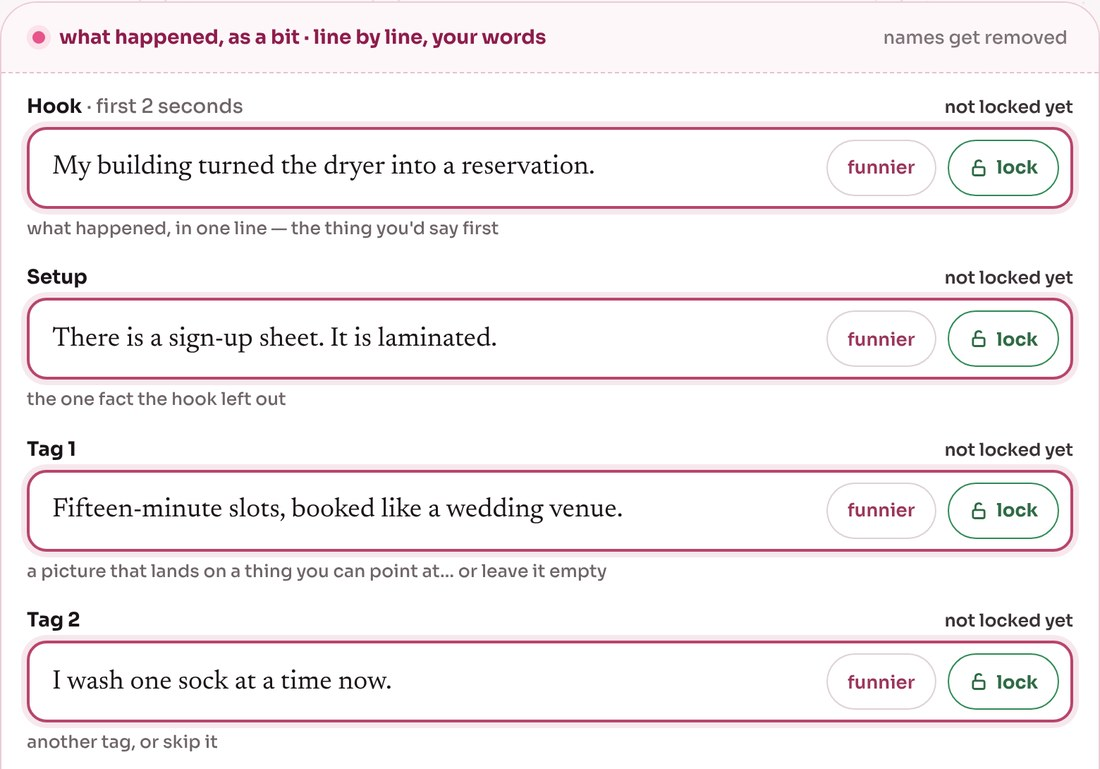
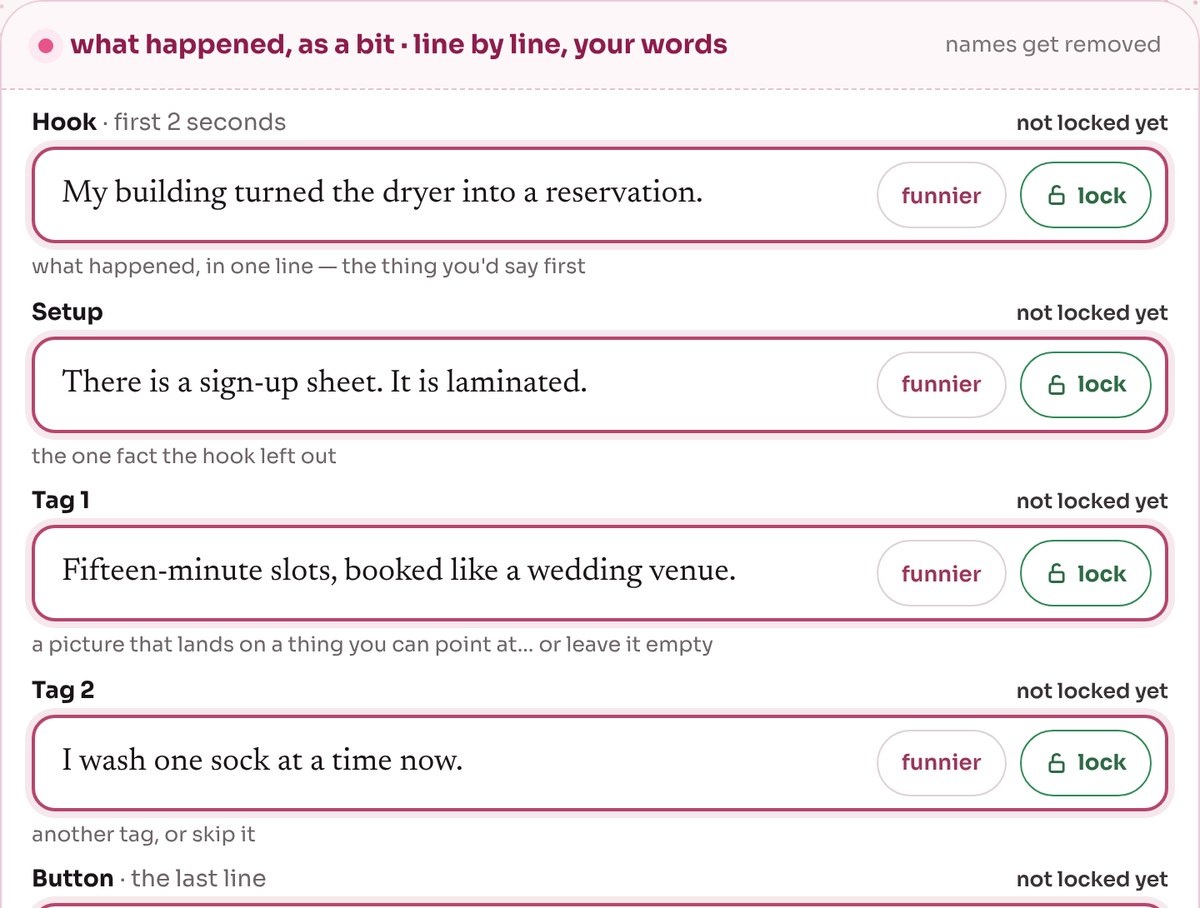
Homepage screenshots come alive: the Bits hook types itself and 'funnier' writes tag 1, the Toasts story types itself, the Realtors walkthrough is written shot by shot
Only covers that uncover the real screenshot (fresh captures from today's pages), so what appears is the product's own screen. Plays while on screen; reduced motion shows the still screenshot.

Claude-Session: https://claude.ai/code/session_01VFctWuAsR2WjEmD9AnvJc8

Changed region(s): [[0.0, 0.1248, 0.9891, 1.0], [0.0309, 0.0312, 0.6182, 0.0624], [0.7727, 0.0312, 0.9891, 0.0624]]

diff --git a/src/pages/home/ShotMotion.tsx b/src/pages/home/ShotMotion.tsx
@@ -1,0 +1,93 @@
+/* Motion on the homepage product screenshots (Nov 6 2026). Nothing here is
+ * drawn: each effect only covers part of the real screenshot and uncovers it,
+ * so what the visitor sees typed or generated is exactly the product's own
+ * screen. Positions are percentages of the screenshot, measured from the
+ * capture (scripts in the PR). Plays only while on screen; with reduced
+ * motion the screenshot shows complete and still. */
+import { useEffect, useRef, type CSSProperties } from 'react'
+
+type Box = { left: number; top: number; width: number; height: number }
+const pct = (b: Box): CSSProperties => ({ left: `${b.left}%`, top: `${b.top}%`, width: `${b.width}%`, height: `${b.height}%` })
+
+/** `then`: another line follows, so this line's caret leaves when it's done */
+type Typing = { kind: 'type'; box: Box; chars: number; from: number; to: number; then?: boolean }
+type Writing = { kind: 'write'; box: Box; until: number; label?: string }
+export type ShotEffect = Typing | Writing
+
+export type ShotMotionSpec = { seconds: number; effects: ShotEffect[] }
+
+/** Bits: the hook is typed, then tag 1 is written by "funnier". */
+const BITS: ShotMotionSpec = {
+  seconds: 10,
+  effects: [
+    { kind: 'type', box: { left: 5.14, top: 19.1, width: 53.8, height: 4.8 }, chars: 48, from: 4, to: 30 },
+    { kind: 'write', box: { left: 5.14, top: 60.6, width: 56.6, height: 4.8 }, until: 52, label: '✦ funnier: writing three ways' },
+  ],
+}
+
+/** Toasts: story 1 is typed, two lines. */
+const TOASTS: ShotMotionSpec = {
+  seconds: 9,
+  effects: [
+    { kind: 'type', box: { left: 5.35, top: 88.15, width: 67.8, height: 3.8 }, chars: 60, from: 6, to: 40, then: true },
+    { kind: 'type', box: { left: 5.35, top: 91.95, width: 21, height: 3.8 }, chars: 18, from: 41, to: 52 },
+  ],
+}
+
+/** Realtors: the walkthrough is written shot by shot. */
+const REALTORS: ShotMotionSpec = {
+  seconds: 8,
+  effects: [
+    { kind: 'write', box: { left: 2.24, top: 49.66, width: 95.05, height: 19.86 }, until: 26, label: '✦ writing the walkthrough from the listing' },
+    { kind: 'write', box: { left: 2.24, top: 69.52, width: 95.05, height: 19.86 }, until: 36 },
+    { kind: 'write', box: { left: 2.24, top: 89.38, width: 95.05, height: 10.62 }, until: 46 },
+  ],
+}
+
+export const SHOT_MOTION: Record<'bits' | 'realtors' | 'toasts', ShotMotionSpec> = { bits: BITS, toasts: TOASTS, realtors: REALTORS }
+
+/** Keyframes for one effect, as a CSS string (percent of the loop). */
+function keyframes(name: string, e: ShotEffect): string {
+  if (e.kind === 'type') {
+    return `@keyframes ${name}{0%,${e.from}%{transform:translateX(0);animation-timing-function:steps(${e.chars},end)}${e.to}%,94%{transform:translateX(${e.then ? '100%' : 'calc(100% - 2px)'});animation-timing-function:steps(1,end)}97%,100%{transform:translateX(0)}}`
+  }
+  return `@keyframes ${name}{0%,${e.until}%{opacity:1}${e.until + 4}%,94%{opacity:0}97%,100%{opacity:1}}`
+}
+
+export function ShotMotion({ product, children }: { product: 'bits' | 'realtors' | 'toasts'; children: React.ReactNode }) {
+  const ref = useRef<HTMLDivElement>(null)
+  const spec = SHOT_MOTION[product]
+
+  useEffect(() => {
+    const el = ref.current
+    if (!el || typeof IntersectionObserver === 'undefined') return
+    const io = new IntersectionObserver(([entry]) => el.classList.toggle('live', entry.isIntersecting), { threshold: 0.35 })
+    io.observe(el)
+    return () => io.disconnect()
+  }, [])
+
+  const css = spec.effects.map((e, i) => keyframes(`ph-${product}-${i}`, e)).join('')
+
+  return (
+    <div className="ph-stage" ref={ref}>
+      {children}
+      <style>{css}</style>
+      {spec.effects.map((e, i) => {
+        const anim = `ph-${product}-${i} ${spec.seconds}s infinite`
+        if (e.kind === 'type') {
+          return (
+            <span key={i} className="ph-type" style={pct(e.box)} aria-hidden="true">
+              <i style={{ animation: `${anim}, ph-caret 1s steps(1, end) infinite` }} />
+            </span>
+          )
+        }
+        return (
+          <span key={i} className="ph-write" style={{ ...pct(e.box), animation: anim }} aria-hidden="true">
+            <b /><b /><b />
+            {e.label && <em>{e.label}</em>}
+          </span>
+        )
+      })}
+    </div>
+  )
+}

diff --git a/src/pages/home/ProductHome.tsx b/src/pages/home/ProductHome.tsx
@@ -13,6 +13,7 @@ import { Link } from '@tanstack/react-router'
 import { useCurrentAlias } from '@/hooks/use-current-alias'
 import { trackEvent } from '@/lib/tracking'
 import { Footer } from '@/components/feed/Footer'
+import { ShotMotion } from './ShotMotion'
 import '@/components/feed/feed.css'
 import './product-home.css'
 
@@ -92,7 +93,7 @@ const PRODUCTS: ProductLine[] = [
     gets: [['lines', 'The bit'], ['video', '5-second video'], ['mic', 'Stand-up prompter'], ['page', 'Sketch page'], ['scene', 'Skit']],
     price: 'Free: 1 bit a day, video watermarked · Basic $19.99/mo: 3 a day · Pro $49.99/mo: unlimited',
     cta: 'Write a bit', href: '/bits',
-    shot: { src: '/home/bits.jpg', url: 'shutap.com/bits', w: 1100, h: 769, alt: 'The Shutap Bits writer: a hook, setup and tags typed line by line, each with funnier and lock' },
+    shot: { src: '/home/bits.jpg', url: 'shutap.com/bits', w: 1200, h: 908, alt: 'The Shutap Bits writer: a hook, setup and tags typed line by line, each with funnier and lock' },
   },
   {
     key: 'realtors', icon: 'realtors', name: 'Realtors', full: 'Shutap for Realtors', aud: 'for agents and brokerages', tab: 'listing videos',
@@ -103,7 +104,7 @@ const PRODUCTS: ProductLine[] = [
     gets: [['camera', 'Walkthrough'], ['wave', 'Voiceover'], ['bolt', 'Hooks'], ['sign', 'Open house'], ['post', 'Posts'], ['doc', 'MLS copy']],
     price: 'First kit free, marked · one kit $12.99 · Basic: 20 a month · Pro: unlimited',
     cta: 'Paste a listing', href: '/realtors',
-    shot: { src: '/home/realtors.jpg', url: 'shutap.com/realtors', w: 1100, h: 649, alt: 'A Shutap for Realtors kit for 1384 Madera Ave, Menlo Park, open on the walkthrough' },
+    shot: { src: '/home/realtors.jpg', url: 'shutap.com/realtors', w: 1200, h: 708, alt: 'A Shutap for Realtors kit for 1384 Madera Ave, Menlo Park, open on the walkthrough' },
   },
   {
     key: 'toasts', icon: 'toasts', name: 'Toasts', full: 'Shutap Toasts', aud: 'for weddings and holidays', tab: 'weddings & holidays',
@@ -114,7 +115,7 @@ const PRODUCTS: ProductLine[] = [
     gets: [['doc', 'Speech'], ['cards', 'Cue cards'], ['phone', 'Prompter'], ['clock', '60-sec cut'], ['timer', 'Rehearse'], ['gift', 'Keepsake']],
     price: 'First toast free, marked · one toast $12.99 · Basic: 1 a month · Pro: unlimited',
     cta: 'Write a toast', href: '/toasts',
-    shot: { src: '/home/toasts.jpg', url: 'shutap.com/toasts', w: 1100, h: 977, alt: 'The Shutap Toasts form: the occasion, who it is for, and the first story' },
+    shot: { src: '/home/toasts.jpg', url: 'shutap.com/toasts', w: 1200, h: 1065, alt: 'The Shutap Toasts form: the occasion, who it is for, and the first story' },
     occasions: [
       { label: 'best man', href: '/toasts/best-man' },
       { label: 'maid of honor', href: '/toasts/maid-of-honor' },
@@ -256,7 +257,11 @@ export function ProductHome() {
                     <figure className="shot">
                       <div className="win">
                         <div className="bar" aria-hidden="true"><i /><i /><i /><span><Icon name="lock" size={10} color="#8f7f86" />{p.shot.url}</span></div>
-                        <div className="crop"><img src={p.shot.src} width={p.shot.w} height={p.shot.h} alt={p.shot.alt} loading="lazy" decoding="async" /></div>
+                        <div className="crop">
+                          <ShotMotion product={p.key as 'bits' | 'realtors' | 'toasts'}>
+                            <img src={p.shot.src} width={p.shot.w} height={p.shot.h} alt={p.shot.alt} loading="lazy" decoding="async" />
+                          </ShotMotion>
+                        </div>
                       </div>
                       <figcaption>Live today on {p.shot.url}</figcaption>
                     </figure>

diff --git a/src/pages/home/product-home.css b/src/pages/home/product-home.css
@@ -90,8 +90,7 @@
 .ph-chapter .bar { display: flex; align-items: center; gap: 6px; height: 32px; padding: 0 12px; background: #fbf4f7; border-bottom: 1px solid rgba(94, 14, 51, .08); }
 .ph-chapter .bar i { width: 9px; height: 9px; border-radius: 50%; background: #ecd9e1; }
 .ph-chapter .bar span { margin-left: 10px; height: 20px; padding: 0 10px; border-radius: 999px; background: #fff; border: 1px solid rgba(94, 14, 51, .08); font: 500 11px/20px 'Sora', sans-serif; color: #7d7277; display: flex; align-items: center; gap: 5px; }
-.ph-chapter .crop { position: relative; max-height: 440px; overflow: hidden; }
-.ph-chapter .crop::after { content: ""; position: absolute; left: 0; right: 0; bottom: 0; height: 60px; background: linear-gradient(180deg, rgba(255, 255, 255, 0), #fff); }
+.ph-chapter .crop { position: relative; overflow: hidden; }
 .ph-chapter .crop img { display: block; width: 100%; height: auto; }
 .ph-chapter figcaption { margin-top: 12px; text-align: center; font: 500 12.5px 'Sora', sans-serif; color: #7d7277; }
 .ph-chapter.deep figcaption { color: #e1b6c7; }
@@ -155,7 +154,6 @@
   .ph-chapter.flip .txt { order: 0; }
   .ph-chapter .does { font-size: 16px; }
   .ph-chapter .txt .ph-btn { width: 100%; }
-  .ph-chapter .crop { max-height: 300px; }
   .ph-block { padding-top: 56px; }
   .ph-block.last { padding-bottom: 48px; }
   .ph-trust { padding: 30px 18px; border-radius: 26px; }
@@ -173,3 +171,21 @@
   .ph-btn, .ph-tab { transition: none; }
   .ph-btn:hover, .ph-tab:hover { transform: none; }
 }
+
+/* motion on the screenshots (ShotMotion): covers that uncover the real screen */
+.ph-stage { position: relative; container-type: inline-size; }
+.ph-stage .ph-type, .ph-stage .ph-write { position: absolute; display: block; pointer-events: none; }
+.ph-stage .ph-type { overflow: hidden; }
+.ph-stage .ph-type i { position: absolute; inset: 0; background: #fff; border-left: 2px solid #b8456b; }
+.ph-stage .ph-write { background: #fff; border-radius: 6px; overflow: hidden; display: flex; flex-direction: column; justify-content: center; gap: 7%; padding: 0 1%; box-sizing: border-box; }
+.ph-stage .ph-write b { display: block; height: 18%; max-height: 10px; min-height: 4px; border-radius: 999px; background: linear-gradient(90deg, #f6e4ec 0%, #fbd0de 40%, #f6e4ec 80%); background-size: 200% 100%; animation: ph-shimmer 1.4s linear infinite; }
+.ph-stage .ph-write b:nth-child(1) { width: 62%; }
+.ph-stage .ph-write b:nth-child(2) { width: 84%; }
+.ph-stage .ph-write b:nth-child(3) { width: 48%; }
+.ph-stage .ph-write em { position: absolute; right: 2%; top: 50%; transform: translateY(-50%); font: 600 clamp(8.5px, 1.75cqw, 12px) 'Sora', sans-serif; font-style: normal; color: #b8456b; background: #fff; border: 1px solid rgba(184, 69, 107, .3); border-radius: 999px; padding: 3px 9px; white-space: nowrap; }
+.ph-stage .ph-type i, .ph-stage .ph-write, .ph-stage .ph-write b { animation-play-state: paused !important; }
+.ph-stage.live .ph-type i, .ph-stage.live .ph-write, .ph-stage.live .ph-write b { animation-play-state: running !important; }
+@keyframes ph-caret { 0% { border-left-color: #b8456b; } 50% { border-left-color: transparent; } }
+@keyframes ph-shimmer { from { background-position: 100% 0; } to { background-position: -100% 0; } }
+@media (max-width: 760px) { .ph-stage .ph-write em { padding: 2px 7px; } }
+@media (prefers-reduced-motion: reduce) { .ph-stage .ph-type, .ph-stage .ph-write { display: none; } }
